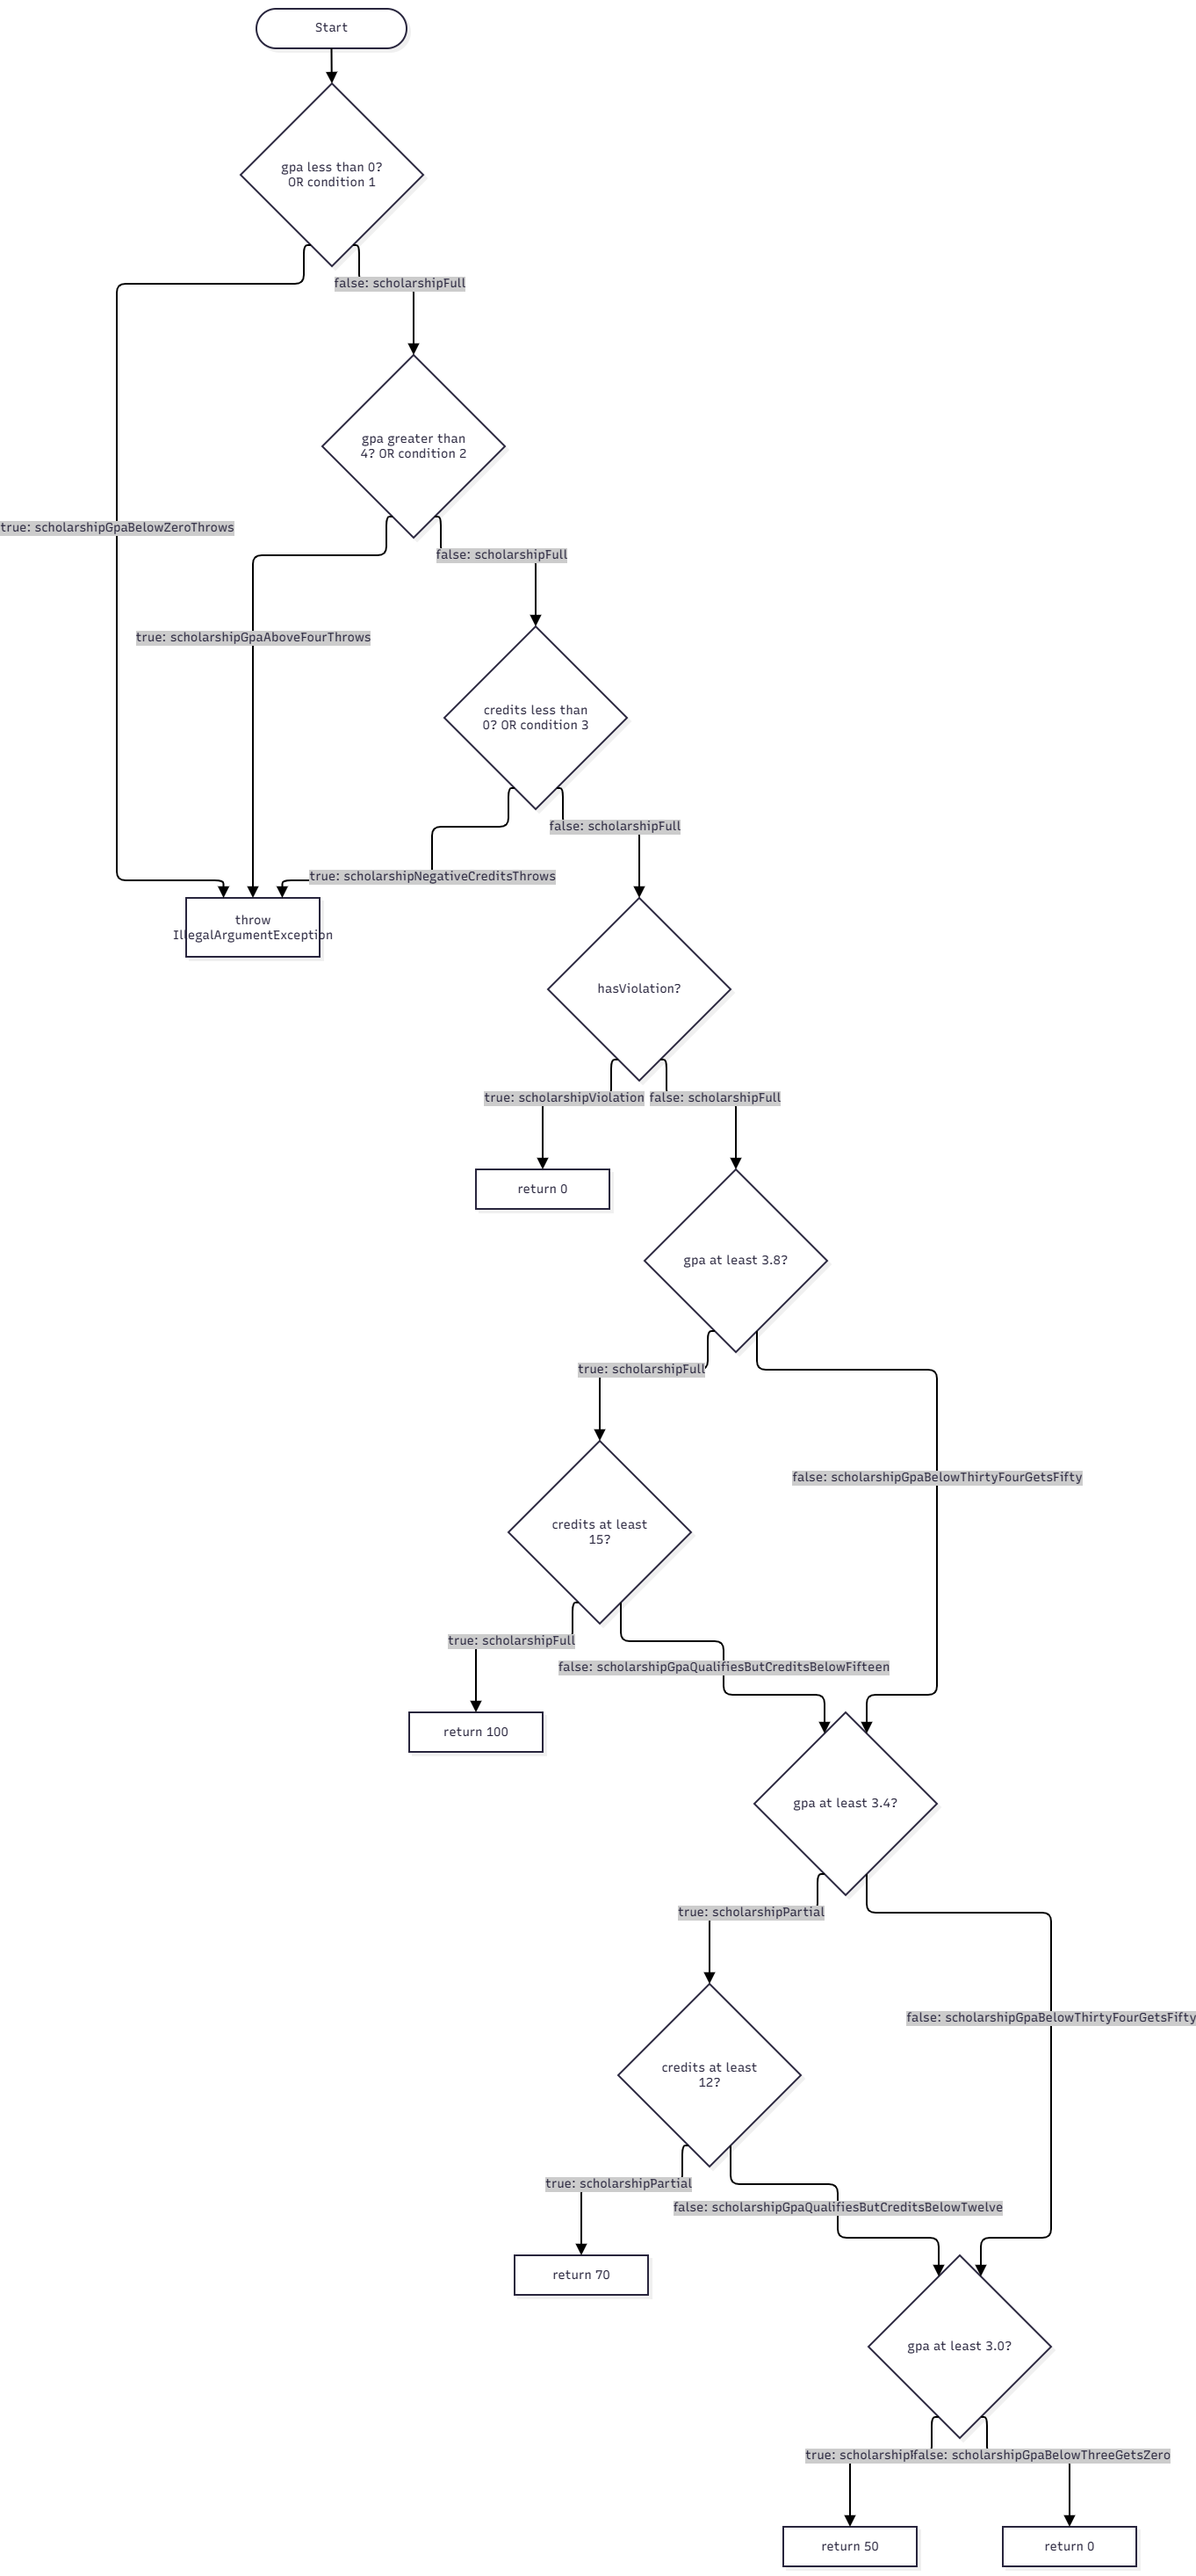
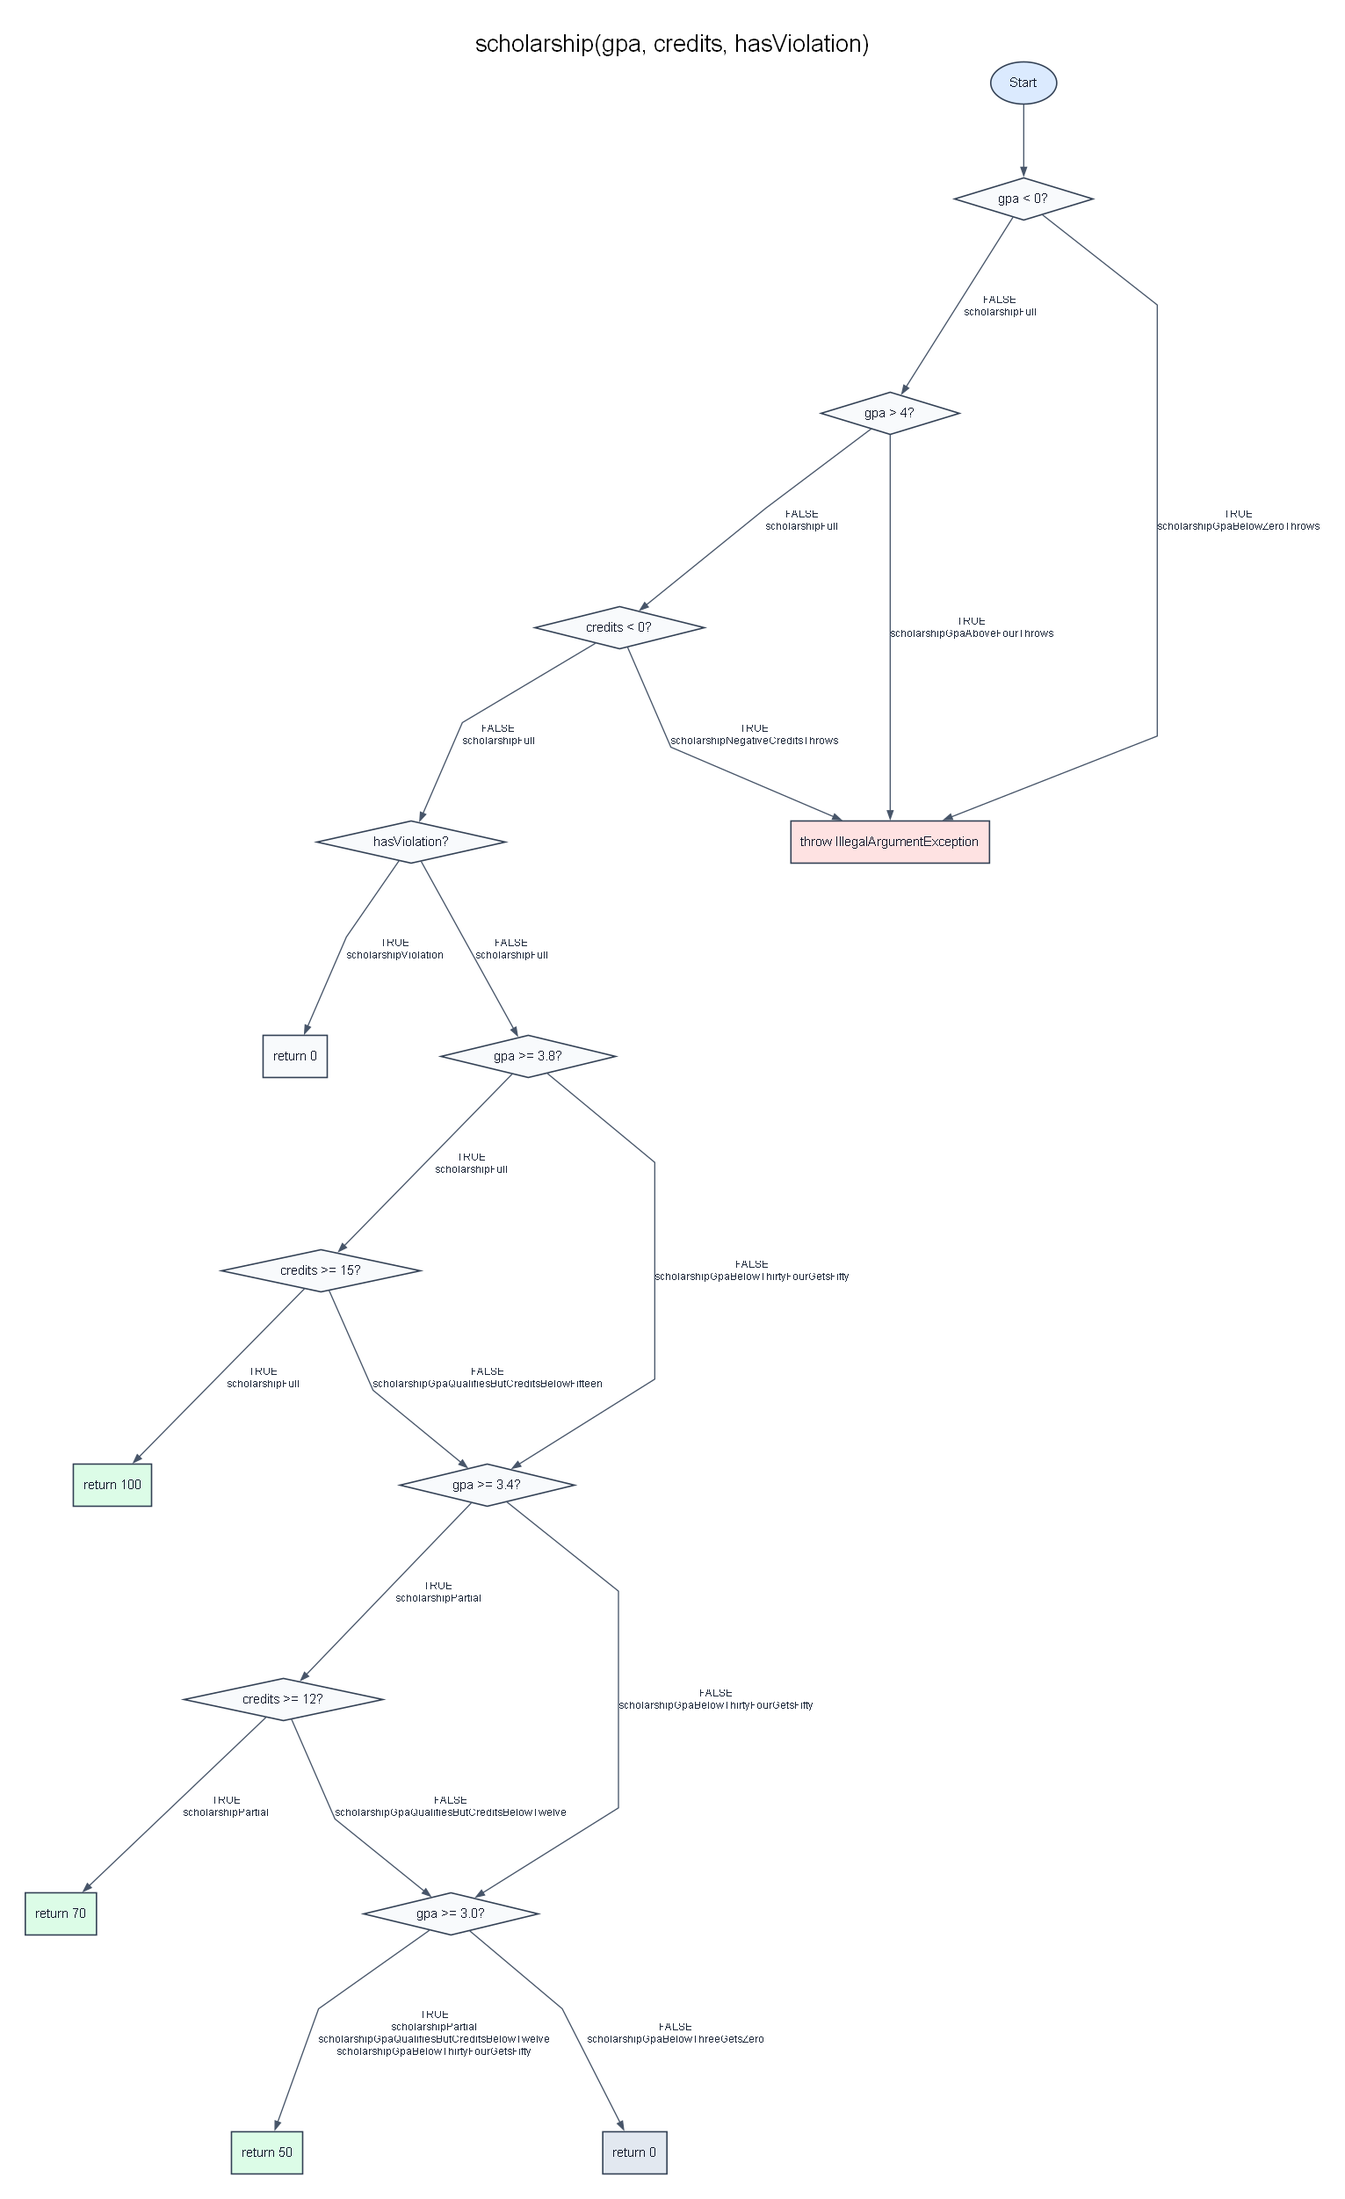
Tighten coverage report and remove duplicate test

diff --git a/src/test/java/mn/edu/must/sqat/ScholarshipCalculatorTest.java b/src/test/java/mn/edu/must/sqat/ScholarshipCalculatorTest.java
@@ -74,11 +74,6 @@ class ScholarshipCalculatorTest {
     }
 
     @Test
-    void gpaZeroScoresLoopBoundaryThrows() {
-        assertThrows(IllegalArgumentException.class, () -> calculator.gpa(new double[]{}));
-    }
-
-    @Test
     void gpaSingleScoreLoopBoundary() {
         assertEquals(4.0, calculator.gpa(new double[]{95}), 0.001);
     }

diff --git a/README.md b/README.md
@@ -14,8 +14,8 @@ OpenJDK 64-Bit Server VM Temurin-17.0.20.1+1 (build 17.0.20.1+1, mixed mode, sha
 $ mvn -version
 Apache Maven 3.9.15 (98b2cdbfdb5f1ac8781f537ea9acccaed7922349)
 Maven home: C:\Program Files\apache-maven-3.9.15
-Java version: 21.0.5, vendor: Eclipse Adoptium, runtime: C:\Program Files\Eclipse Adoptium\jdk-21.0.5.11-hotspot
-Default locale: en_US, platform encoding: UTF-8
+Java version: 17.0.20.1, vendor: Eclipse Adoptium, runtime: C:\Program Files\Eclipse Adoptium\jdk-17.0.20.101-hotspot
+Default locale: en_US, platform encoding: Cp1252
 OS name: "windows 11", version: "10.0", arch: "amd64", family: "windows"
 ```
 
@@ -23,7 +23,7 @@ OS name: "windows 11", version: "10.0", arch: "amd64", family: "windows"
 
 Хэвийн урсгалын 5 тест ажиллав: `Tests run: 5, Failures: 0, Errors: 0, Skipped: 0`. JaCoCo CSV-ээс мөрийн хамралт 15/25 = **60.0%**, салааны хамралт 21/41 = **51.2%** байна (`results/jacoco-A.csv`). Бүтэн Maven гаралт `results/mvn-verify-A.txt` дотор хадгалагдсан.
 
-Шар салаанууд нь тэтгэлгийн босго бүрийн нөгөө нөхцөл, онооны мужуудын бусад үр дүн зэрэг дутуу шалгагдсан хувилбарууд юм. Улаан мөрүүдэд GPA-ийн validation болон дүнгийн F/default зам зэрэг огт хүрээгүй хэсгүүд орно. Эхний тестүүд дангаараа алдааны болон хязгаарын замуудыг шалгахгүйг тайлан харуулж байна.
+JaCoCo HTML тайланд шар буюу хэсэгчлэн хамрагдсан мөрүүд нь `20` (`letterGrade`-ийн хязгаарын шалгалт), `24` (B дүнгийн босго), `31` (`gpa`-ийн null/хоосон шалгалт), `36` (дүнгийн switch), `48` (`scholarship`-ийн оролтын шалгалт), `52–53` (тэтгэлгийн нийлмэл босгууд) байв. Улаан, огт хамрагдаагүй мөрүүд нь `21`, `25–27`, `32`, `39–40`, `49`, `54–55`: эдгээрт онооны алдааны зам, C/D/F үнэлгээ, GPA exception, scholarship validation exception, 50% болон эцсийн 0% буцаах зам орно. Switch-ийн F/default салаа нь тусдаа мөрөөр биш `36` дахь switch мөрөнд тоологддог бөгөөд A шатанд огт гүйцэтгээгүй.
 
 ## Хэсэг B — CFG ба 100% бүтцийн хамралт
 
@@ -33,10 +33,16 @@ OS name: "windows 11", version: "10.0", arch: "amd64", family: "windows"
 
 ## Хэсэг C — Давталтын заагийн тестүүд
 
-`gpaZeroScoresLoopBoundaryThrows` хоосон массивт exception-ийг шалгана (`gpaNullScoresThrows` нь null-ийг шалгана); `gpaSingleScoreLoopBoundary` нэг дүнтэй, `gpaMultipleScoresLoopBoundary` дөрвөн дүнтэй оролтыг шалгана. C шатны дараа 22 тест бүгд амжилттай (`results/mvn-verify-C.txt`).
+`gpaEmptyScoresThrows` хоосон массивт exception шалгана (`gpaNullScoresThrows` нь null-ийг шалгана); `gpaSingleScoreLoopBoundary` нэг дүнтэй, `gpaMultipleScoresLoopBoundary` дөрвөн дүнтэй оролтыг шалгана. C үеийн тайланд 22 тест бүгд амжилттай (`results/mvn-verify-C.txt`). Дараах хяналтаар `gpaZeroScoresLoopBoundaryThrows` нь `gpaEmptyScoresThrows`-тай ижил оролт шалгаж байсныг олж, давхардсан тестийг хассан.
 
 Эдгээр давталтын заагууд хамралтыг нэмэхгүй ч давталт огт ажиллаагүй, нэг удаа ажилласан, олон удаа ажилласан үеийн үр дүнг шалгана. Тиймээс 100% хамралттай кодонд ч хоосон болон ганц элементтэй массивын буруу боловсруулалт үлдээгүйг батлахад хэрэгтэй.
 
+## Хэсэг D — Заагийн алдаа ба засвар
+
+`letterGradeSpecificationBoundaries` тест 60, 59.99, 69.99, 0, 100, 89.99, 90 оноог шалгасан. Анхны `mvn test` ажиллуулахад `ScholarshipCalculatorTest.letterGradeSpecificationBoundaries:47 expected: <D> but was: <F>` гэж унасан (`results/mvn-test-D-fail.txt`). Заагийн тест ба уналтын логийг `Add failing letter grade boundary test` commit-д, харин `score > 60`-ийг `score >= 60` болгосон засвар болон эцсийн verify/CSV-г `Fix letterGrade: > 60 to >= 60, spec says 60 is D` гэсэн тусдаа commit-д оруулсан. Давхардсан тестийг хассаны дараах эцсийн `mvn verify`-д 22 тест амжилттай; `results/jacoco-final.csv`-д Branch 41/41, Line 25/25 байна.
+
+100% branch хамралт нь шийдвэрийн салаа бүрээр код явсныг хэмждэг ч онооны бүх боломжит утгыг шалгасныг батлахгүй. `score > 60` ба `score >= 60` нь ижил салааны бүтцийг үүсгэдэг учраас 60 оноог туршаагүй үед хамралт 100% хэвээр байж болно. 60 дээрх тест `D` хүлээсэн ч `F` авснаар заагийн алдаа илэрсэн. Нөхцөлийг зассаны дараа заасан долоон заагийн утга бүгд зөв үнэлэгдэж байна. Иймээс хамралтыг зөв үр дүнгийн нотолгоо гэж бус, тестээр гүйцэтгэсэн кодын хэсгийн хэмжүүр гэж ойлгоно.
+
 ## AI туслахын хэрэглээ
 
-AI туслахыг зааврын хэсгүүдийг нэгтгэх, тестийн бүтэц болон тайлангийн CSV-г шалгахад ашиглав. Туршилтуудыг энэ компьютерт Maven-ээр ажиллуулж, гарсан үр дүнг `results/` файлд хадгалсан.
+AI туслахыг B хэсэгт CFG-ийн ирмэгүүдийг `scholarship` тестийн бодит методын нэртэй тулгах, C хэсэгт давталтын заагийн тестийн оролт/хүлээлтийг гаргахад ашиглав. D хэсэгт 60 болон бусад заагийн онооны тестийн хувилбаруудыг боловсруулах, `mvn-test-D-fail.txt` дахь уналтыг тайлбарлах, засварын дараах CSV-г шалгахад ашигласан. Мөн README-ийн A–D хэсэгт бичсэн тестийн тоо, хамралтын утгуудыг холбогдох `results/` файлуудтай тулган нягталсан.
